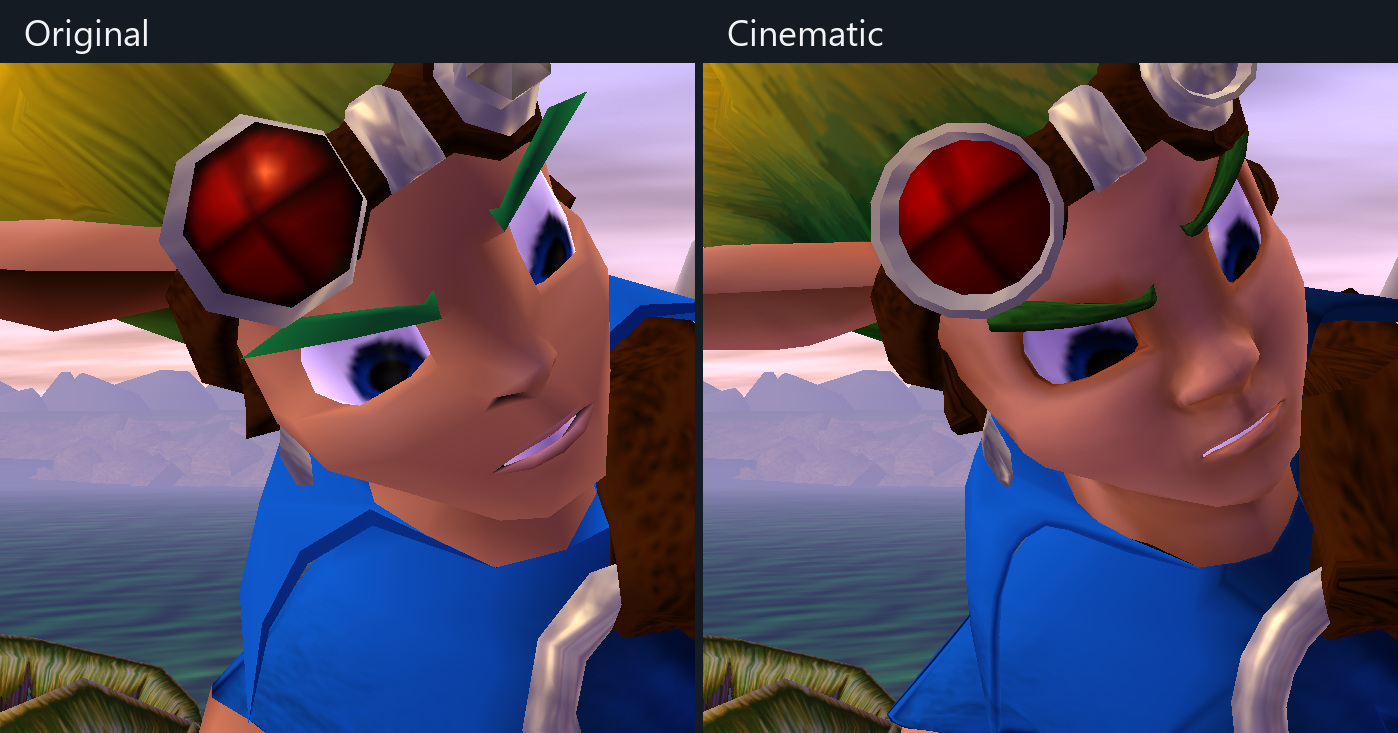
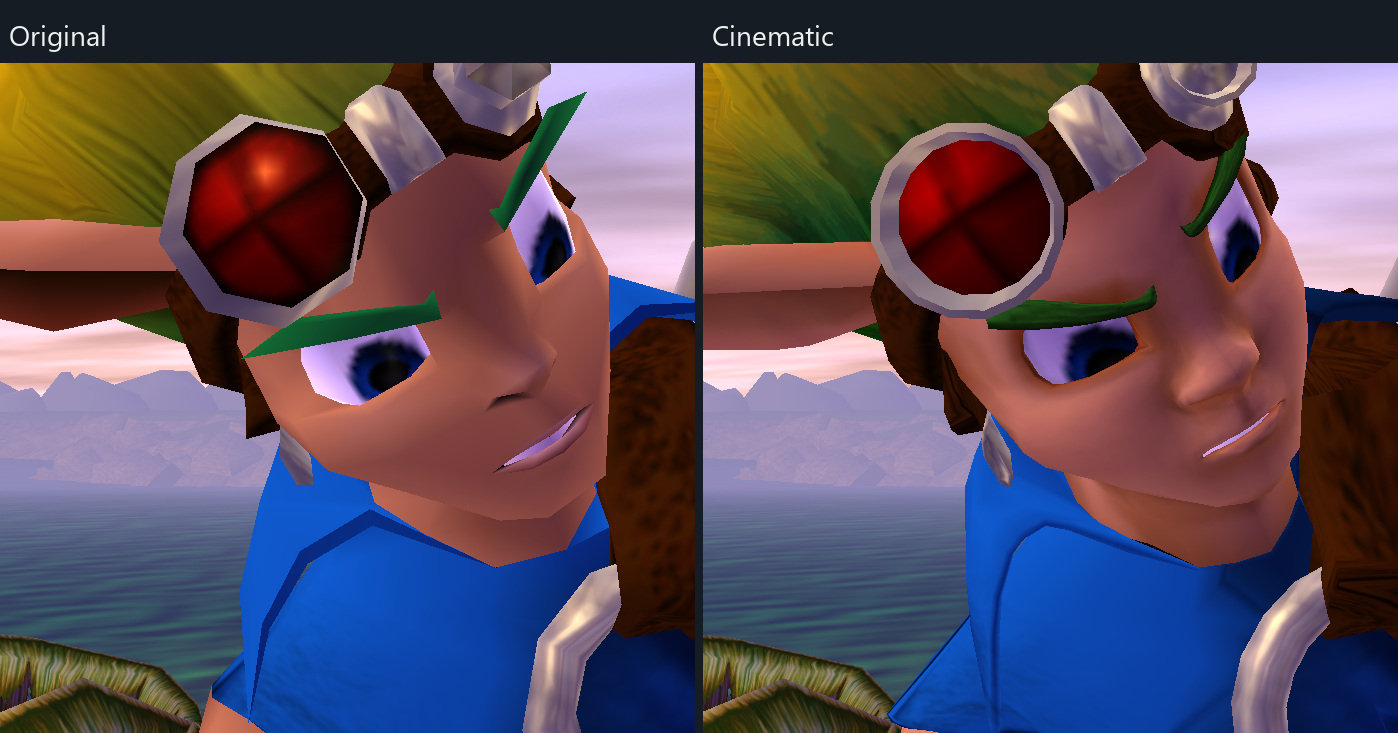
Refresh in-game comparisons for jak1 v0.3.8

diff --git a/docs/comparisons/jak1.html b/docs/comparisons/jak1.html
@@ -17,8 +17,10 @@
 <figure><figcaption>Front</figcaption><a href="jak1/jak-front-f96378faa9b6.jpg"><img src="jak1/jak-front-f96378faa9b6.jpg" width="892" height="868" alt="Jak, Front: Original left, Cinematic right" loading="lazy" decoding="async"></a></figure>
 <figure><figcaption>Side</figcaption><a href="jak1/jak-side-e44f6c3edc2b.jpg"><img src="jak1/jak-side-e44f6c3edc2b.jpg" width="892" height="868" alt="Jak, Side: Original left, Cinematic right" loading="lazy" decoding="async"></a></figure>
 <figure><figcaption>Back</figcaption><a href="jak1/jak-back-939e1beafac1.jpg"><img src="jak1/jak-back-939e1beafac1.jpg" width="892" height="868" alt="Jak, Back: Original left, Cinematic right" loading="lazy" decoding="async"></a></figure>
-<figure id="jak-doorway"><figcaption>At the Sage’s doorway</figcaption><a href="jak1/expressions/jak-doorway.jpg"><img src="jak1/expressions/jak-doorway.jpg" width="1398" height="733" alt="At the Sage’s doorway. Original left, Cinematic right." style="width:auto;max-width:100%" loading="lazy" decoding="async"></a></figure>
-<figure id="jak-surprised"><figcaption>Surprised in the Sage’s hut</figcaption><a href="jak1/expressions/jak-surprised.jpg"><img src="jak1/expressions/jak-surprised.jpg" width="948" height="567" alt="Surprised in the Sage’s hut. Original left, Cinematic right." style="width:auto;max-width:100%" loading="lazy" decoding="async"></a></figure>
+<figure id="jak-doorway"><figcaption>At the Sage’s doorway</figcaption><a href="jak1/expressions/jak-doorway.jpg?v=905baabd63de"><img src="jak1/expressions/jak-doorway.jpg?v=905baabd63de" width="1398" height="733" alt="At the Sage’s doorway. Original left, Cinematic right." style="width:auto;max-width:100%" loading="lazy" decoding="async"></a></figure>
+<figure id="jak-surprised"><figcaption>Surprised in the Sage’s hut</figcaption><a href="jak1/expressions/jak-surprised.jpg?v=ca9dbe62aa20"><img src="jak1/expressions/jak-surprised.jpg?v=ca9dbe62aa20" width="948" height="567" alt="Surprised in the Sage’s hut. Original left, Cinematic right." style="width:auto;max-width:100%" loading="lazy" decoding="async"></a></figure>
+<figure id="jak-misty-island"><figcaption>Misty Island opening</figcaption><a href="jak1/expressions/jak-misty-island.jpg?v=bffe8f97c25b"><img src="jak1/expressions/jak-misty-island.jpg?v=bffe8f97c25b" width="1006" height="504" alt="Misty Island opening. Original left, Cinematic right." style="width:auto;max-width:100%" loading="lazy" decoding="async"></a></figure>
+<figure id="jak-geyser-rock-cell"><figcaption>Geyser Rock power-cell celebration</figcaption><a href="jak1/expressions/jak-geyser-rock-cell.jpg?v=5a254549a39a"><img src="jak1/expressions/jak-geyser-rock-cell.jpg?v=5a254549a39a" width="1338" height="663" alt="Geyser Rock power-cell celebration. Original left, Cinematic right." style="width:auto;max-width:100%" loading="lazy" decoding="async"></a></figure>
 </section>
 <section id="daxter"><h2>Daxter</h2>
 <figure><figcaption>Front</figcaption><a href="jak1/daxter-front.jpg?v=88481a9f1fb4"><img src="jak1/daxter-front.jpg?v=88481a9f1fb4" width="452" height="348" alt="Daxter, Front: Original left, Cinematic right" loading="lazy" decoding="async"></a></figure>

diff --git a/docs/verification.md b/docs/verification.md
@@ -1,6 +1,10 @@
 # Jak and Daxter verification
 
-Release `0.3.6` targets Windows x64, [Apple Silicon macOS](macos.md) and [experimental Linux x64](linux.md) with official OpenGOAL **v0.3.9**. The launcher protocol was checked with **v2.11.2**. Intel Macs are unsupported. Real Linux launcher import, model conversion and gameplay are not yet validated.
+Release `0.3.8` targets Windows x64, [Apple Silicon macOS](macos.md) and [experimental Linux x64](linux.md) with official OpenGOAL **v0.3.9**. The launcher protocol was checked with **v2.11.2**. Intel Macs are unsupported. Real Linux launcher import, model conversion and gameplay are not yet validated.
+
+## Jak’s tongue and brows
+
+On Windows PAL, Jak’s mouth and brows were checked against the same frames in the original Misty Island opening and one Geyser Rock power-cell celebration. The small fold behind his upper teeth belongs to the roof of the mouth. [In-game comparisons](comparisons/jak1.md#jak)
 
 ## Refreshed HUD
 

diff --git a/docs/comparisons/jak1.md b/docs/comparisons/jak1.md
@@ -22,11 +22,19 @@ Uses the original gameplay clothing and accessory textures.
 
 **At the Sage’s doorway**
 
-![At the Sage’s doorway. Original left, Cinematic right.](jak1/expressions/jak-doorway.jpg)
+![At the Sage’s doorway. Original left, Cinematic right.](jak1/expressions/jak-doorway.jpg?v=905baabd63de)
 
 **Surprised in the Sage’s hut**
 
-![Surprised in the Sage’s hut. Original left, Cinematic right.](jak1/expressions/jak-surprised.jpg)
+![Surprised in the Sage’s hut. Original left, Cinematic right.](jak1/expressions/jak-surprised.jpg?v=ca9dbe62aa20)
+
+**Misty Island opening**
+
+![Misty Island opening. Original left, Cinematic right.](jak1/expressions/jak-misty-island.jpg)
+
+**Geyser Rock power-cell celebration**
+
+![Geyser Rock power-cell celebration. Original left, Cinematic right.](jak1/expressions/jak-geyser-rock-cell.jpg)
 
 ## Daxter
 
